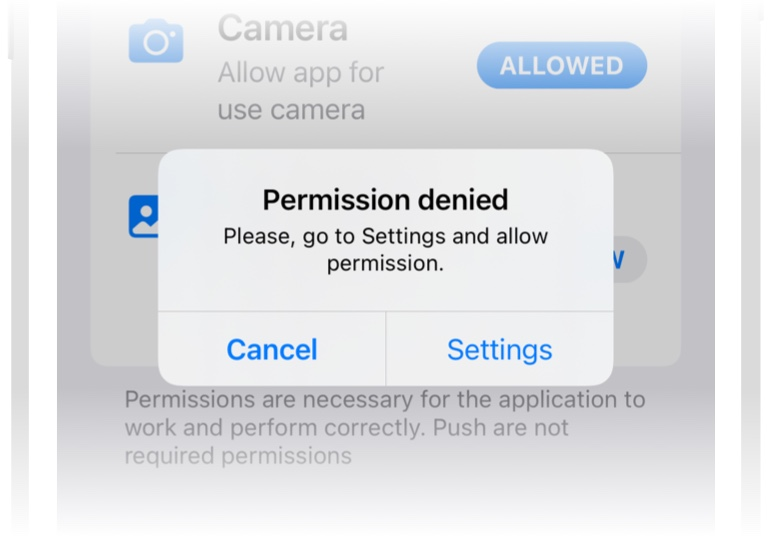
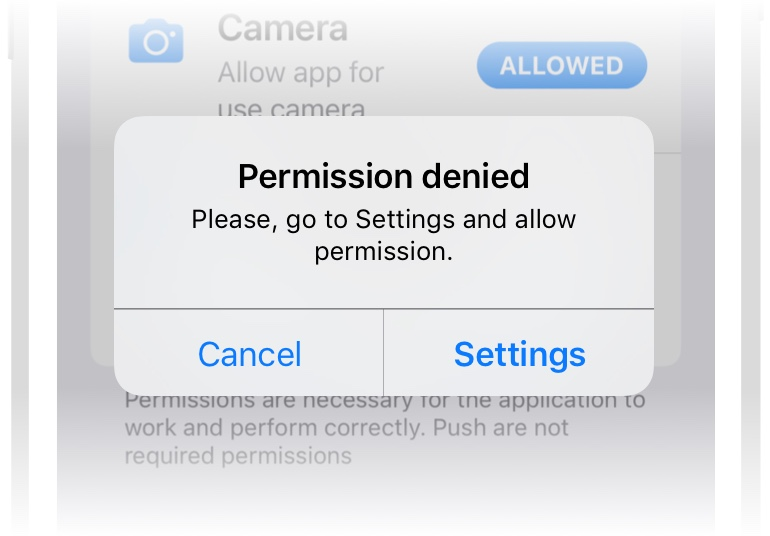
Updated readme.

Changed region(s): [[0.1247, 0.209, 0.8727, 0.7463], [0.2494, 0.6269, 0.4364, 0.6866]]

diff --git a/README.md b/README.md
@@ -288,21 +288,22 @@ extension Controller: SPPermissionsDataSource {
 If permission denied, you can provide alert to user for propose open settings. Here you can customise text of it alert:
 
 ```swift
+let texts = SPPermissionDeniedAlertTexts()
+texts.titleText = "Permission denied"
+texts.descriptionText = "Please, go to Settings and allow permission."
+texts.buttonText = "Settings"
+texts.cancelText = "Cancel"
+```
+
+Next implement method and return
+```swift
 func deniedAlertTexts(for permission: SPPermissions.Permission) -> SPPermissionDeniedAlertTexts? {
-    // You can create custom texts
-
-    /*
-     let texts = SPPermissionDeniedAlertTexts()
-     texts.titleText = "Permission denied"
-     texts.descriptionText = "Please, go to Settings and allow permission."
-     texts.buttonText = "Settings"
-     texts.cancelText = "Cancel"
-     return texts
-     */
-
-    // or use default texts.
-
-    return .default
+    
+    // Custom texts:
+    return texts
+    
+    // or default texts:
+    // return .default
 }
 ```
 
